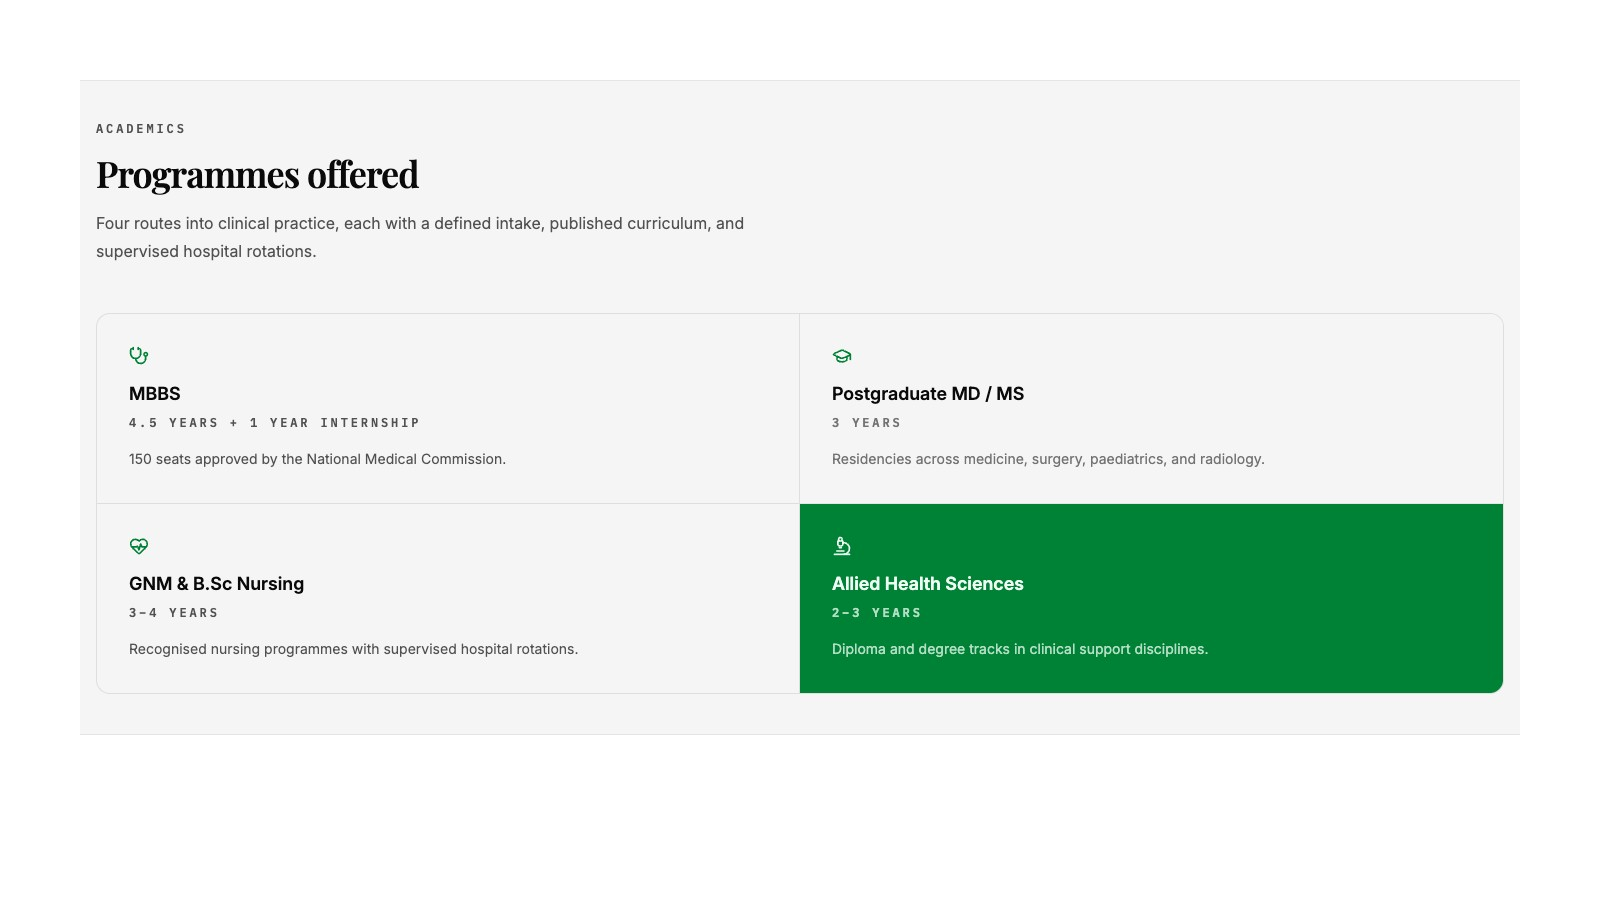
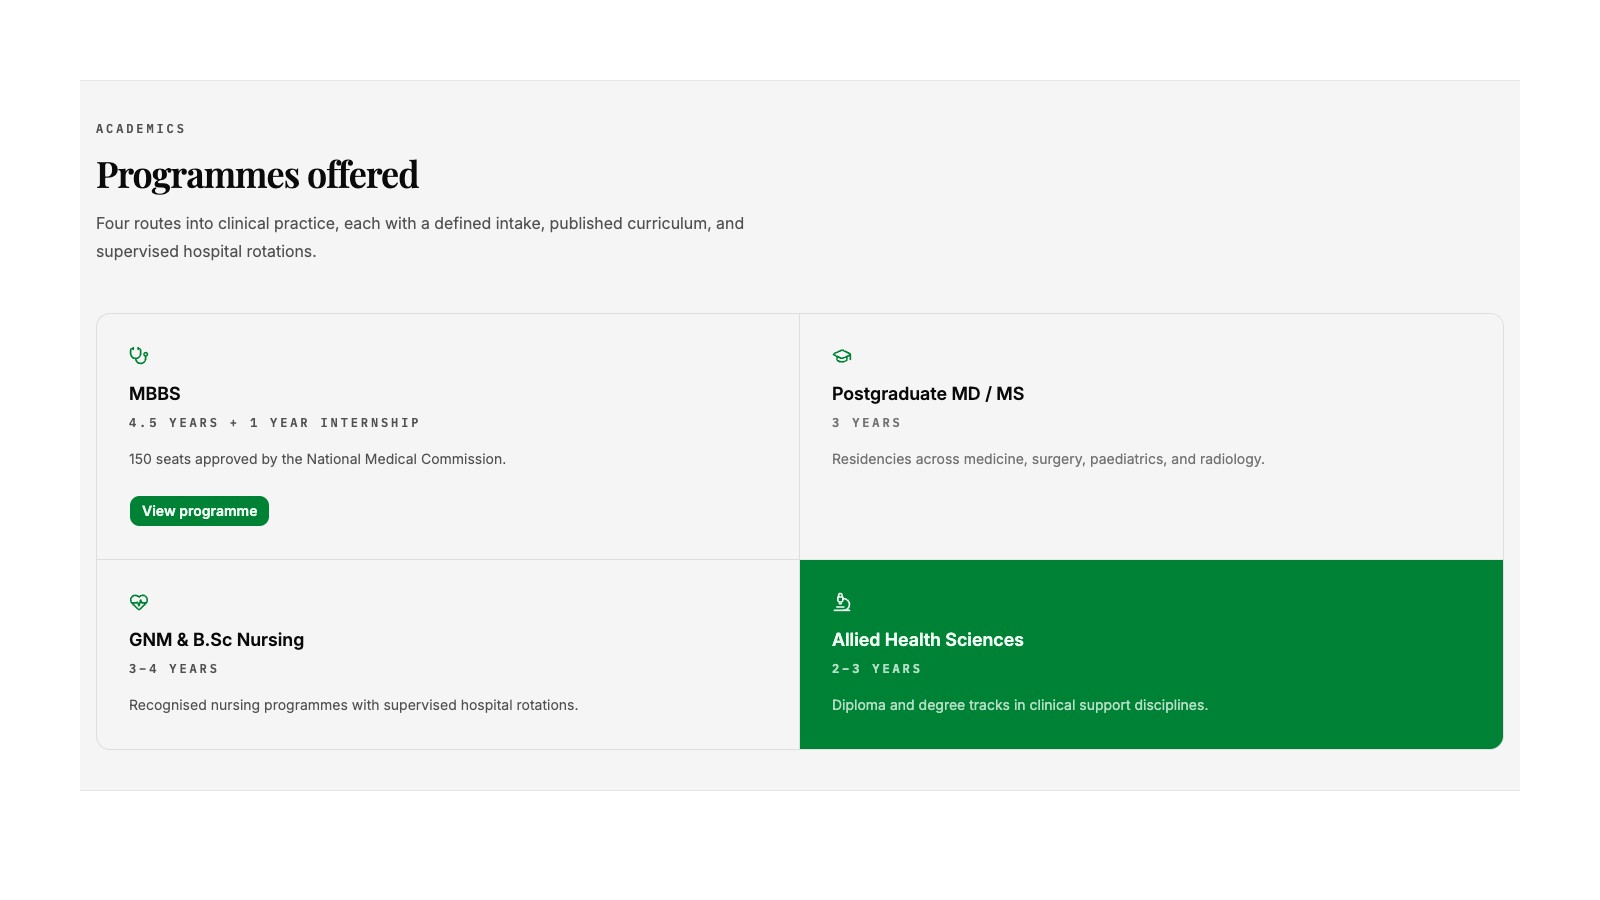
test(blocks): preview matrix card action

Changed region(s): [[0.5, 0.56, 0.9375, 0.84], [0.0625, 0.5289, 0.3438, 0.7467], [0.0938, 0.7778, 0.3438, 0.8089]]

diff --git a/src/block-thumbnails/fixtures.tsx b/src/block-thumbnails/fixtures.tsx
@@ -2160,17 +2160,21 @@ export const blockThumbnailFixtures = {
   ),
   programMatrix: (
     <ProgramMatrixBlockComponent
+      actionMode="button"
       appearance={{ background: 'subtle', border: 'topAndBottom' }}
       contentAlignment="left"
       description="Four routes into clinical practice, each with a defined intake, published curriculum, and supervised hospital rotations."
       eyebrow="Academics"
+      itemActionLabel="View programme"
       items={[
         {
           cardBackground: 'default',
           icon: 'stethoscope',
+          linkType: 'custom',
           title: 'MBBS',
           metadata: '4.5 Years + 1 Year Internship',
           description: '150 seats approved by the National Medical Commission.',
+          url: '/programmes/mbbs',
         },
         {
           cardBackground: 'muted',

diff --git a/tests/int/program-matrix.int.spec.tsx b/tests/int/program-matrix.int.spec.tsx
@@ -471,6 +471,9 @@ describe('Program Matrix catalogs', () => {
     expect(thumbnailDefinitionsSource).toContain("slug: 'programMatrix'")
     expect(thumbnailFixturesSource).toContain('programMatrix:')
     expect(thumbnailFixturesSource).toContain('<ProgramMatrixBlockComponent')
+    expect(thumbnailFixturesSource).toContain('actionMode="button"')
+    expect(thumbnailFixturesSource).toContain('itemActionLabel="View programme"')
+    expect(thumbnailFixturesSource).toContain("url: '/programmes/mbbs'")
   })
 
   it('is recorded in architecture and operator documentation', () => {
